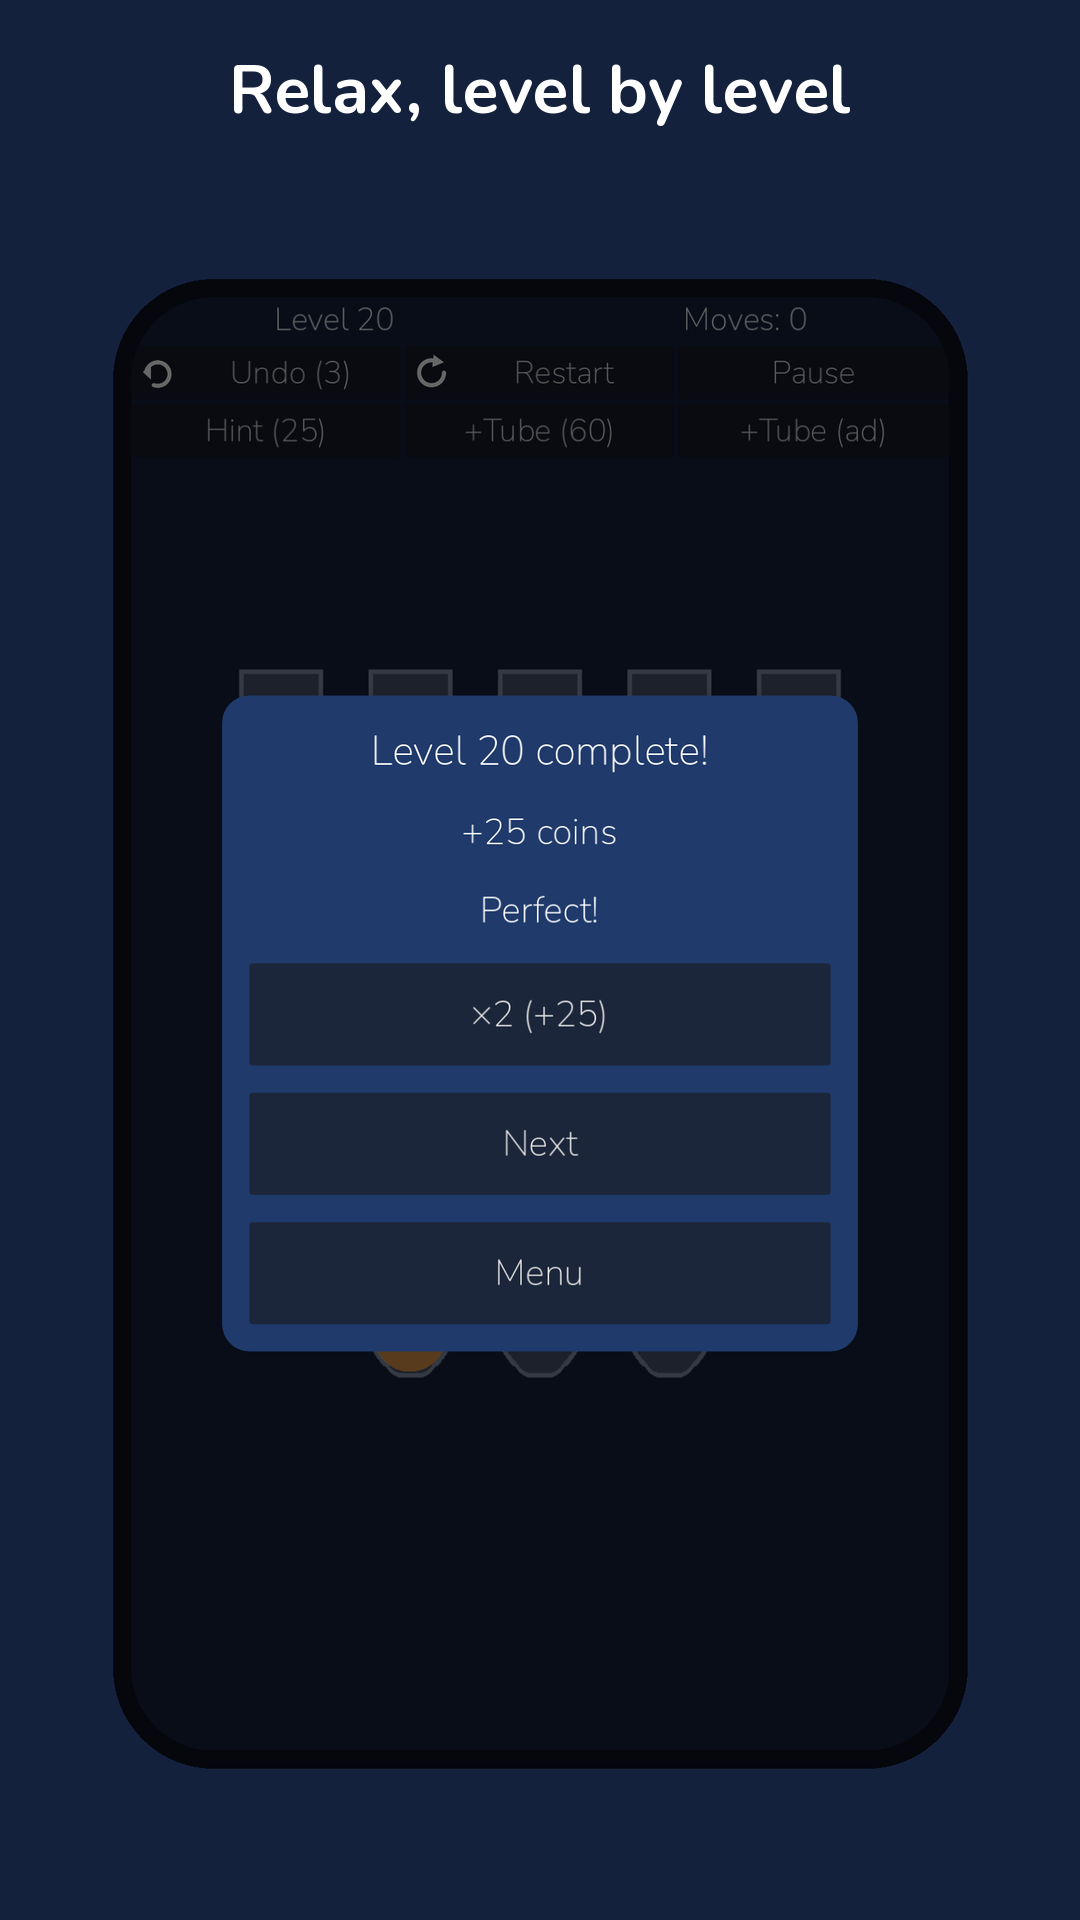
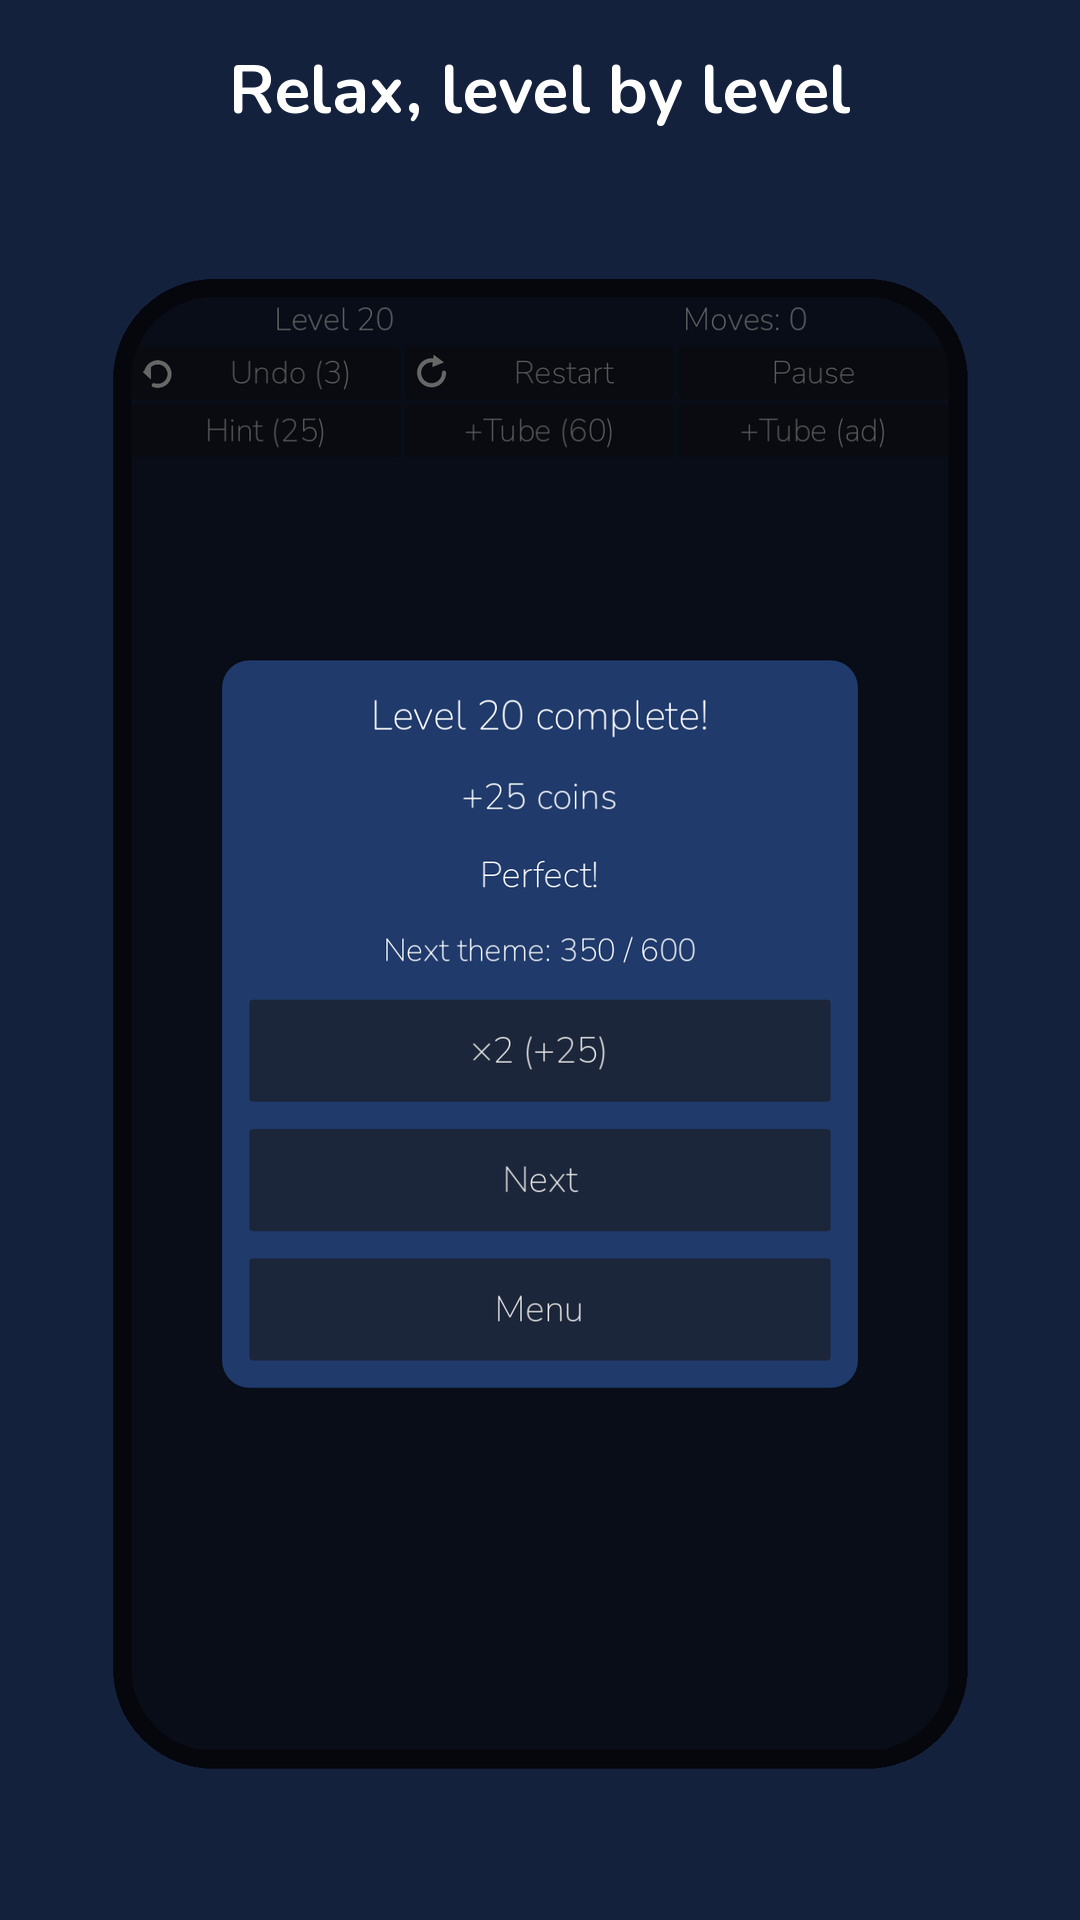
feat(T-096): LevelComplete — komunikat „Następny poziom: +1 kolor” albo postęp do motywu (progress_message, ProgressLabel, EN/PL/DE, kadr 02)
Claude-Session: https://claude.ai/code/session_01Q1bYwEEaBcVVCpna3di32Y

Changed region(s): [[0.1833, 0.3438, 0.7944, 0.75]]

diff --git a/BACKLOG.md b/BACKLOG.md
@@ -36,7 +36,7 @@ Pętla bierze pierwsze `todo` z najwyższej sekcji. Zadania P0 muszą być `done
   KA: `Level` rejestruje `tutorial:step:1` (start tutorialu), `tutorial:step:2` (wejście w `PICK_TARGET`), `tutorial:step:3` (wejście w `FINISH`) — każdy tylko przy pierwszym osiągnięciu w rundzie (pole `_tutorial_max_step`; powtórne `PICK_SOURCE` przy kolejnych przelewach poziomu 1 nie generuje eventów); `tutorial:reset` (value = krok, z którego cofnięto) w `_on_tutorial_deselected`; istniejące `tutorial:done` bez zmian. Testy gdUnit4 z `FakeAnalyticsProvider` ≥ 3: poprawne przejście poziomu 1 → `step:1`, `step:2`, `step:3`, `done` dokładnie po 1× w tej kolejności; odznaczenie w kroku 2 → 1× `tutorial:reset`, bez ponownego `step:1`; poziom 1 przy `tutorial_done == true` → 0 eventów `tutorial:*`. Zgodne z GDD → Analityka `tutorial_step` (refill #5). `make check` zielone. ≤ ~50 linii.
   Skill: `godot-dev` + `analytics-review`
 
-- [ ] T-096 `in_progress` LevelComplete: komunikat „Następny poziom: +1 kolor” albo postęp do następnego motywu (GDD → Ekrany `LevelComplete`, Sesja hook 4)
+- [ ] T-096 `review` LevelComplete: komunikat „Następny poziom: +1 kolor” albo postęp do następnego motywu (GDD → Ekrany `LevelComplete`, Sesja hook 4) → PR #81
   KA: czysta funkcja statyczna (np. `LevelComplete.progress_message(level_no: int, mode: String, state: GameState) -> Dictionary {key, args}`, bez `Node`): kampania i `ContentGenerator.new().level_params(level_no + 1)["colors"] > level_params(level_no)["colors"]` → klucz `lc_new_color` (EN „Next level: +1 color”, PL „Następny poziom: +1 kolor”, DE „Nächstes Level: +1 Farbe”); w przeciwnym razie `lc_theme_progress` z `[state.coins, ThemeCatalog.next_theme_cost(state)]` (format jak `home_theme_progress`); wszystkie motywy kupione albo tryb daily → `{}` i etykieta ukryta. `LevelComplete.show_result` pokazuje etykietę pod monetami (po ×2 odświeżona). Testy gdUnit4 ≥ 5: poziom 7 → `lc_new_color` (asercja wyliczona z `level_params`, nie z literału); poziom 8 → `lc_theme_progress`; wszystkie motywy kupione → `{}`; daily → `{}`; po `watch_double_coins` monety w etykiecie zaktualizowane. Nowe klucze objęte testem kompletności EN/PL/DE (T-023) i testem „PL/DE ≠ EN” (T-076). Kadr 02 (`make screenshots`, EN/PL/DE) odświeżony i obejrzany (tekst nie nachodzi na przyciski). `make check` zielone. ≤ ~100 linii + PNG.
   Skill: `godot-dev`
 
@@ -114,6 +114,9 @@ Pętla bierze pierwsze `todo` z najwyższej sekcji. Zadania P0 muszą być `done
 - [ ] T-103 `todo` `test_content_generator.gd` → `test_levels_1_to_200_solvable_and_fast`: twardy próg `max_ms <= 500` bywa przekroczony na obciążonej maszynie CI (odkryte w T-093: 543 ms, przy ponownym uruchomieniu OK) — mierzyć medianę/percentyl albo ustawić próg z `GameConfig`/stałej z marginesem; nie osłabiać asercji „rozwiązywalny”. Skill: godot-test
 
 - [ ] T-104 `todo` `Level.elapsed_s` liczy też czas w tle bez zabicia aplikacji (FOCUS_OUT robi snapshot = flush, ale po FOCUS_IN `_round_bound_at` nie jest przestawiane) — przy `NOTIFICATION_APPLICATION_FOCUS_IN` ponownie zakotwiczyć licznik (np. `Level.resume_clock()` wołane z `App._notification`) + test z wstrzykniętym zegarem (odkryte w T-094, QA). Skill: godot-dev
+
+- [ ] T-105 `todo` Kadr sklepowy 02 (`aso_win`): panel LevelComplete (po T-096 wyższy o linię) zakrywa prawie całą planszę — probówki niewidoczne; rozważyć fixture z planszą przesuniętą/mniejszym panelem albo półprzezroczysty panel w kadrze (odkryte w T-096). Skill: aso
+- [ ] T-106 `todo` `make screenshots` przy każdym uruchomieniu zmienia bajty `03_daily.png` (EN/PL/DE) i `05_themes.png` (PL/DE) bez zmian w kodzie — niedeterminizm (data? kolejność?); ustalić źródło, żeby PR-y nie niosły przypadkowych PNG (odkryte w T-096). Skill: aso
 
 ## Pytania do Huberta
 - T-027: wejście do Sklepu ze StuckPanel podmieniało scenę (postęp ruchów przepadał) — rozwiązane w T-049: Shop jako overlay nad Level, powrót do tej samej rundy i trybu (campaign/daily).

diff --git a/docs/LOG.md b/docs/LOG.md
@@ -136,3 +136,4 @@ Godot 4.4.1 → 4.7.2, gdUnit4 → v7, target API 36 (ADR-008). make check zielo
 - P1: T-093 `Level.quit_level` → tylko `level:pause` (moves), `Level.level_id_for` static; `App._discard_snapshot()` (Fail z trybem/id snapshotu + `level:fail:abandon`, raz, potem czyści) w 4 miejscach (resume false campaign/daily, snapshot innego trybu przy „Graj”/Poziomie dnia); 2 testy przepisane + 4 nowe (346 gdUnit4); QA OK z sugestiami, playtest 200/200 → PR #78 (auto-merge, depends on #77). Inbox: T-103.
 - P1: T-094 `GameRound.elapsed_s` (to_dict/from_dict: brak/zły typ/ujemne → 0, `result()`), `Level._flush_elapsed()` idempotentne przy `snapshot()` i wygranej (`_round_bound_at` z `_bind_round`, `restart` nie zeruje), 3 design eventy `level:complete:<perfect|normal>` (sekundy) / `:undos` / `:boosters`; 7 testów (353 gdUnit4); QA PASS, playtest 200/200 → PR #79 (auto-merge, depends on #78). Inbox: T-104.
 - P1: T-095 `Level._track_tutorial_step()` (`tutorial:step:N`, N = Step+1, raz na rundę przez `_tutorial_max_step`), `tutorial:reset` (value = krok) przy odznaczeniu i błędnym przelewie; `tutorial:done` bez zmian; 4 testy z FakeAnalyticsProvider w `test_tutorial_flow.gd` (357 gdUnit4); QA PASS (statyczny) → PR #80 (auto-merge, depends on #79).
+- P1: T-096 `LevelComplete.progress_message` (static: „+1 kolor” gdy `level_params(L+1).colors` rośnie, inaczej `lc_theme_progress` [coins, next_theme_cost], daily/wszystkie motywy → {}), `ProgressLabel` w `.tscn`, klucze EN/PL/DE, `Level` przekazuje progress przy wygranej i po ×2, fixture kadru 02; 6 testów (363 gdUnit4); kadr 02 PL obejrzany (panel zakrywa planszę → Inbox T-105); QA PASS → PR #81 (auto-merge, depends on #80). Inbox: T-105, T-106.
